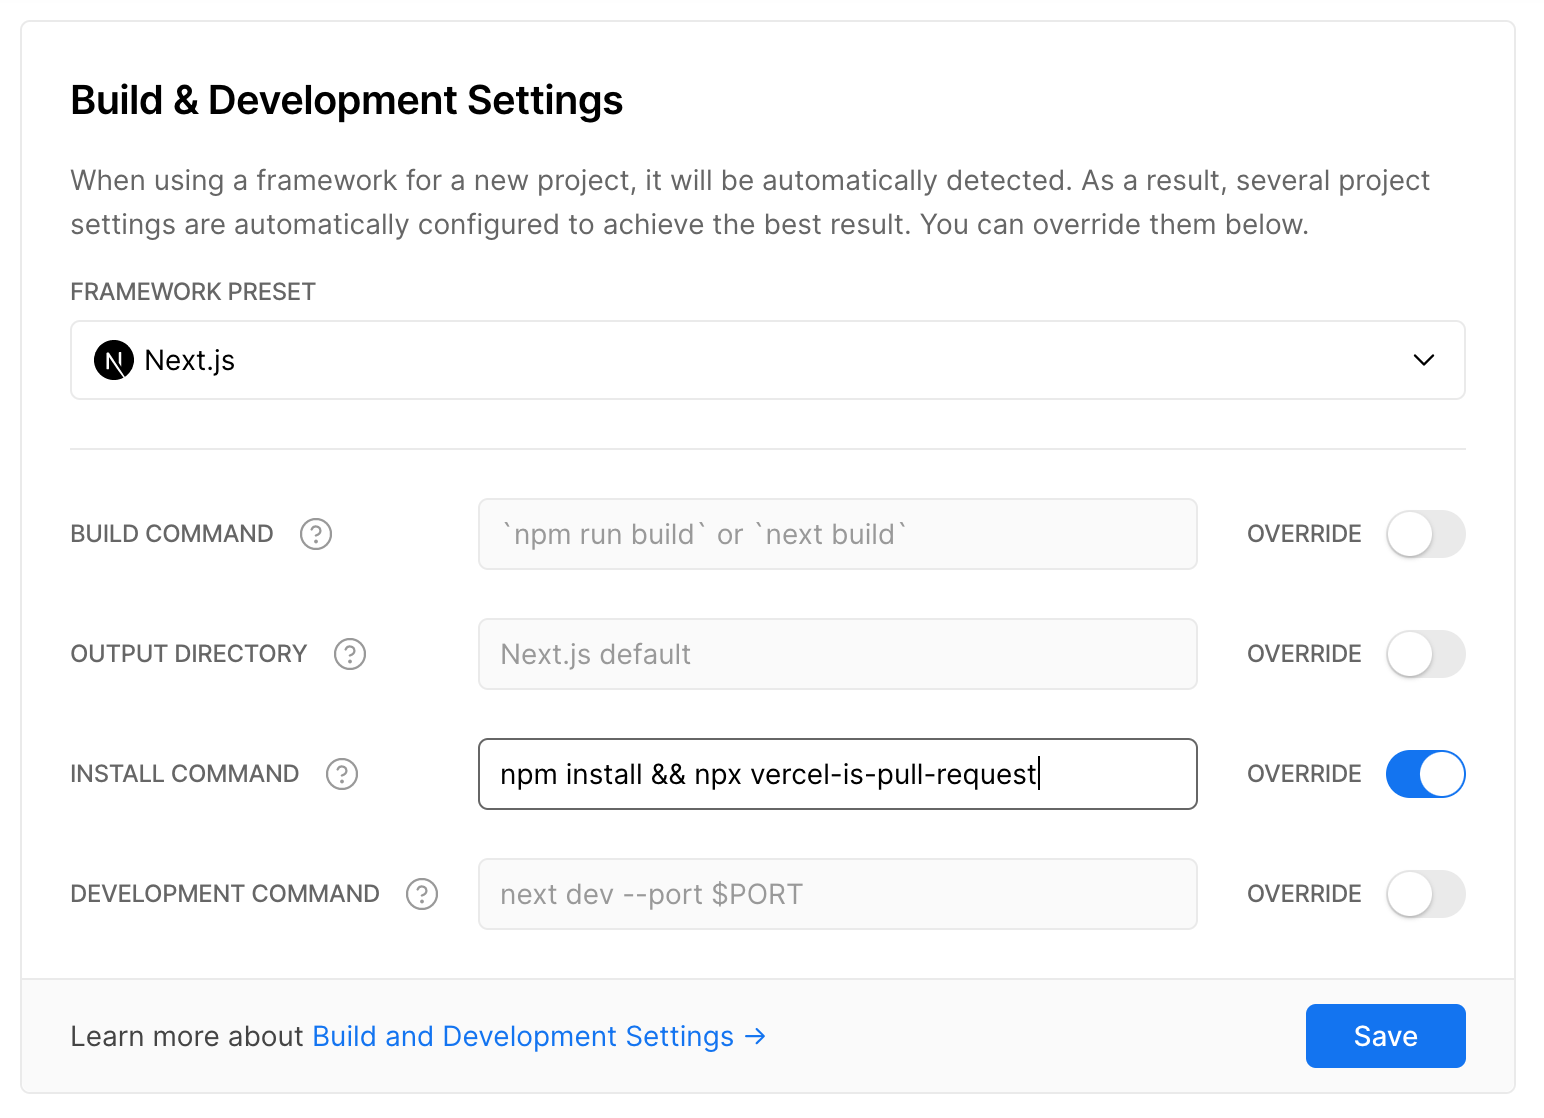
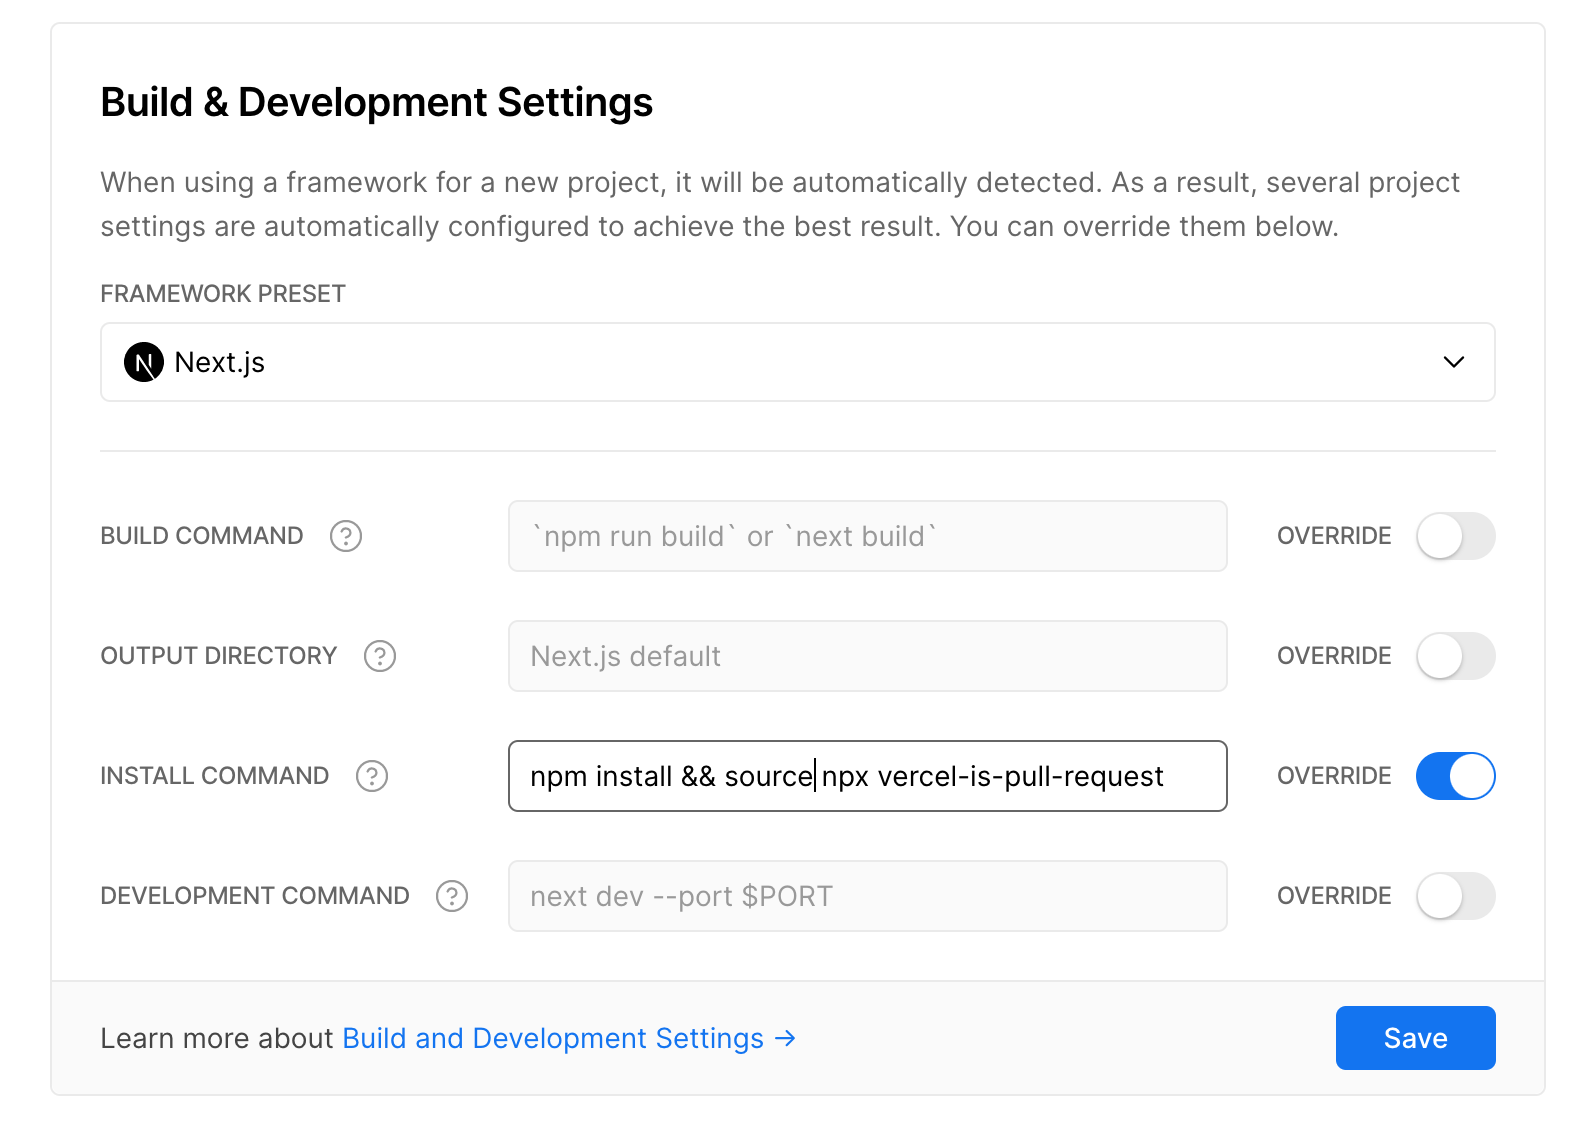
moved source to user config

diff --git a/README.md b/README.md
@@ -18,7 +18,7 @@ npm install vercel-is-pull-request
 ```
 
 
-Then, update your install command to include the command `npx vercel-is-pull-request`.
+Then, update your install command to include the command `source npx vercel-is-pull-request`.
 
 ![Screenshot of updating vercel install command to include vercel-is-pull-request](./install-command.png)
 
